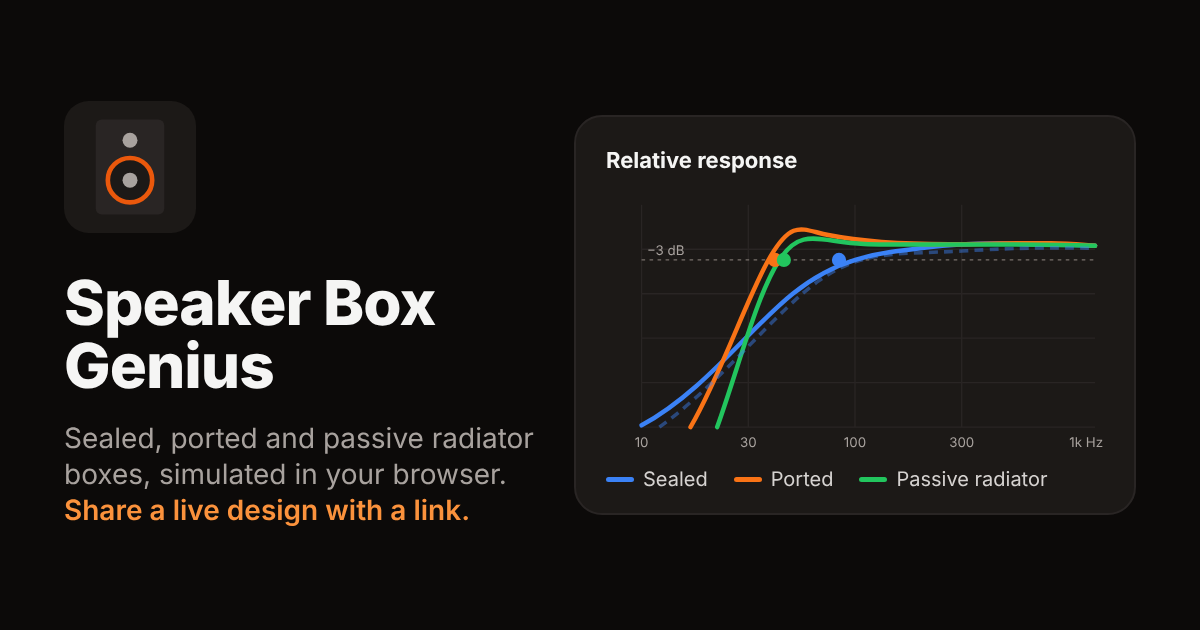
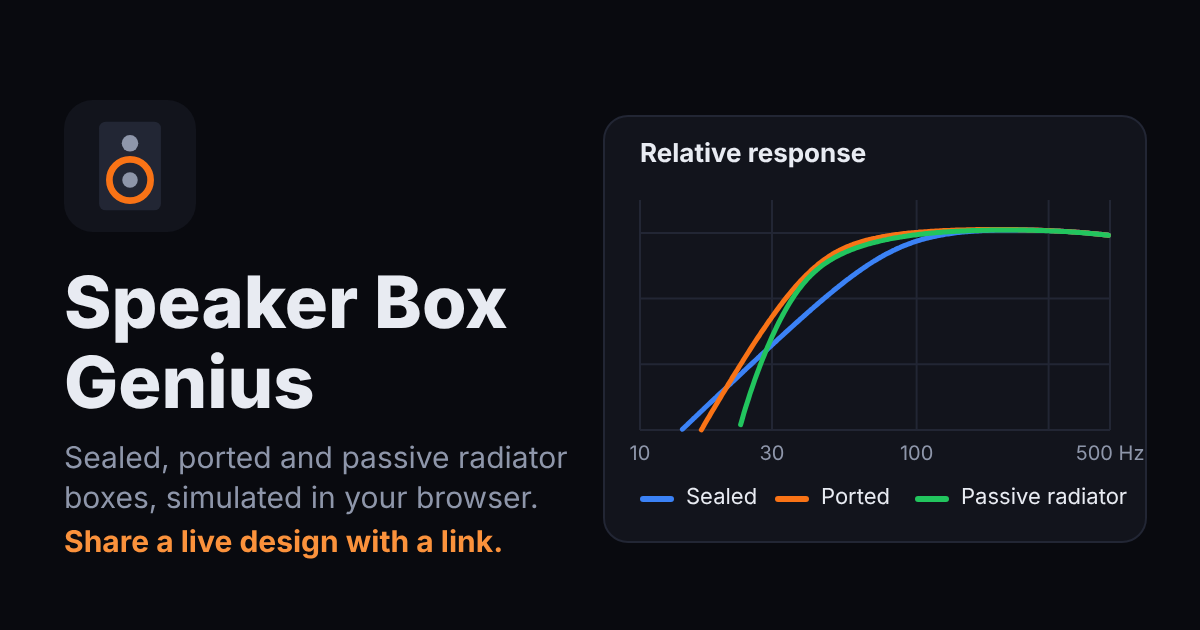
Cool blue-grey theme (orange accent kept)
- App: canvas #090A0F, cards #12141C, inputs #0C0E14 with a slightly
  stronger border (#343B4F), borders/grid #222634, muted #8E96AA, cool white
  text #E8EBF2; the warm greys left in the code (dimmed undo, chart greys, QR
  label) swapped for cool ones. Orange accent unchanged.
- Site pages, charts and driver share cards in the same colours.
- site/brand.ts redraws the app icons and the site's share image in the
  theme (the share image's curves are a real simulation); manifest and
  theme-color updated; service worker cache bumped so installed apps pick up
  the new icons.

Claude-Session: https://claude.ai/code/session_014Z7ytyiySCQiZm6U3R9TMx

diff --git a/site/brand.ts b/site/brand.ts
@@ -1,0 +1,131 @@
+/**
+ * Redraws the app icons and the site's share image (packages/web/public) from SVG, in the
+ * theme's colours, with headless Chrome (site/og.ts). Run it after changing the colours:
+ *
+ *   node --experimental-strip-types site/brand.ts
+ *
+ * The curves in the share image are a real simulation: the Dayton Audio DSA215-8 in its
+ * suggested sealed, ported and passive radiator boxes (as on its driver page).
+ */
+import { writeFileSync } from "node:fs";
+import { join } from "node:path";
+import { designDriver, loadDb, prCandidate } from "./drivers.ts";
+import { findChrome, Rasterizer } from "./og.ts";
+
+const PUBLIC = join(import.meta.dirname, "..", "packages", "web", "public");
+export const BRAND = {
+  canvas: "#090a0f",
+  card: "#12141c",
+  border: "#222634",
+  cabinet: "#222634",
+  dot: "#8e96aa",
+  fg: "#e8ebf2",
+  muted: "#8e96aa",
+  accent: "#fb923c",
+  ring: "#f97316",
+};
+const FONT = "Inter, 'Segoe UI', Roboto, 'DejaVu Sans', Arial, sans-serif";
+
+/**
+ * The logo: a speaker cabinet with a tweeter and an orange woofer ring, on a card.
+ * `inset` shrinks the drawing for maskable icons (whose edges get cropped to any shape);
+ * `rounded` gives the card rounded corners (off for iOS, which rounds it itself).
+ */
+export function logoSvg(size: number, o: { rounded?: boolean; inset?: number } = {}): string {
+  const k = (1 - (o.inset ?? 0)) * (size / 512);
+  const off = (size - 512 * k) / 2;
+  const r = o.rounded === false ? 0 : 112 * (size / 512);
+  return `<svg xmlns="http://www.w3.org/2000/svg" width="${size}" height="${size}" viewBox="0 0 ${size} ${size}">
+<rect width="${size}" height="${size}" rx="${r}" fill="${BRAND.card}"/>
+<g transform="translate(${off} ${off}) scale(${k})">
+<rect x="136" y="84" width="240" height="344" rx="26" fill="${BRAND.cabinet}"/>
+<circle cx="256" cy="168" r="32" fill="${BRAND.dot}"/>
+<circle cx="256" cy="310" r="80" fill="none" stroke="${BRAND.ring}" stroke-width="26"/>
+<circle cx="256" cy="310" r="30" fill="${BRAND.dot}"/>
+</g>
+</svg>`;
+}
+
+/** The site's own share image: the logo, the name, what it does, and a response chart. */
+export function siteCardSvg(curves: { color: string; label: string; points: [number, number][] }[]): string {
+  const W = 1200;
+  const H = 630;
+  const cx = 640, cy = 200, cw = 470, ch = 230;
+  const fMin = 10, fMax = 500, dbMin = -30, dbMax = 5;
+  const x = (f: number) => cx + (Math.log(f / fMin) / Math.log(fMax / fMin)) * cw;
+  const y = (db: number) => cy + ((dbMax - db) / (dbMax - dbMin)) * ch;
+  const grid = [
+    ...[10, 30, 100, 300, 500].map((f) => `<line x1="${x(f).toFixed(1)}" x2="${x(f).toFixed(1)}" y1="${cy}" y2="${cy + ch}"/>`),
+    ...[0, -10, -20, -30].map((d) => `<line x1="${cx}" x2="${cx + cw}" y1="${y(d).toFixed(1)}" y2="${y(d).toFixed(1)}"/>`),
+  ].join("");
+  const ticks = [
+    [10, "10"],
+    [30, "30"],
+    [100, "100"],
+    [500, "500 Hz"],
+  ]
+    .map(([f, t]) => `<text x="${x(f as number).toFixed(1)}" y="${cy + ch + 30}" text-anchor="middle" class="ax">${t}</text>`)
+    .join("");
+  const paths = curves
+    .map((c) => {
+      let d = "";
+      let pen = false;
+      for (const [f, v] of c.points) {
+        if (f < fMin || f > fMax || !(v >= dbMin)) {
+          pen = false;
+          continue;
+        }
+        d += `${pen ? "L" : "M"}${x(f).toFixed(1)} ${y(Math.min(v, dbMax)).toFixed(1)}`;
+        pen = true;
+      }
+      return `<path d="${d}" fill="none" stroke="${c.color}" stroke-width="5" stroke-linejoin="round" stroke-linecap="round"/>`;
+    })
+    .join("");
+  const legend = curves
+    .map((c, i) => `<g transform="translate(${cx + [0, 135, 275][i]!} ${cy + ch + 70})"><rect y="-4" width="34" height="6" rx="3" fill="${c.color}"/><text x="46" y="4" class="leg">${c.label}</text></g>`)
+    .join("");
+  const icon = logoSvg(132).replace(/^<svg[^>]*>/, "").replace(/<\/svg>$/, "");
+  return `<svg xmlns="http://www.w3.org/2000/svg" width="${W}" height="${H}" viewBox="0 0 ${W} ${H}">
+<style>text{font-family:${FONT};fill:${BRAND.fg}}.ax{fill:${BRAND.muted};font-size:20px}.leg{font-size:22px;fill:${BRAND.fg}}</style>
+<rect width="100%" height="100%" fill="${BRAND.canvas}"/>
+<g transform="translate(64 100)">${icon}</g>
+<text x="64" y="328" font-size="72" font-weight="800">Speaker Box</text>
+<text x="64" y="408" font-size="72" font-weight="800">Genius</text>
+<text x="64" y="468" font-size="30" fill="${BRAND.muted}" style="fill:${BRAND.muted}">Sealed, ported and passive radiator</text>
+<text x="64" y="508" font-size="30" style="fill:${BRAND.muted}">boxes, simulated in your browser.</text>
+<text x="64" y="552" font-size="30" font-weight="700" style="fill:${BRAND.accent}">Share a live design with a link.</text>
+<rect x="${cx - 36}" y="${cy - 84}" width="${cw + 72}" height="${ch + 196}" rx="24" fill="${BRAND.card}" stroke="${BRAND.border}" stroke-width="2"/>
+<text x="${cx}" y="${cy - 38}" font-size="26" font-weight="700">Relative response</text>
+<g stroke="${BRAND.border}" stroke-width="2">${grid}</g>
+${ticks}
+${paths}
+${legend}
+</svg>`;
+}
+
+if (process.argv[1] && import.meta.filename === process.argv[1]) {
+  const chrome = findChrome();
+  if (!chrome) throw new Error("No Chrome found (set CHROME_PATH)");
+  const db = loadDb();
+  const page = designDriver(db.drivers.find((e) => e.id === "dayton-audio/dsa215-8")!, db.passiveRadiators.map(prCandidate))!;
+  const names: Record<string, string> = { sealed: "Sealed", vented: "Ported", pr: "Passive radiator" };
+  const curves = page.designs.map((d) => ({
+    color: d.color,
+    label: names[d.design.kind] ?? d.design.kind,
+    points: Array.from(d.result.freq, (f, i) => [f, d.result.spl[i]! - d.result.summary.referenceSpl] as [number, number]),
+  }));
+  const r = await Rasterizer.start(chrome);
+  try {
+    const png = (svg: string, size: number) => r.image(svg, { width: size, height: size, format: "png" });
+    writeFileSync(join(PUBLIC, "icons", "icon-512.png"), await png(logoSvg(512), 512));
+    writeFileSync(join(PUBLIC, "icons", "icon-192.png"), await png(logoSvg(192), 192));
+    writeFileSync(join(PUBLIC, "icons", "favicon-32.png"), await png(logoSvg(32), 32));
+    // iOS rounds the corners itself; maskable icons get cropped to the platform's shape.
+    writeFileSync(join(PUBLIC, "icons", "apple-touch-icon.png"), await png(logoSvg(180, { rounded: false }), 180));
+    writeFileSync(join(PUBLIC, "icons", "icon-maskable-512.png"), await png(logoSvg(512, { rounded: false, inset: 0.2 }), 512));
+    writeFileSync(join(PUBLIC, "og-image.png"), await r.image(siteCardSvg(curves), { width: 1200, height: 630, format: "png" }));
+    console.log("Wrote the icons and og-image.png");
+  } finally {
+    await r.close();
+  }
+}

diff --git a/site/og.ts b/site/og.ts
@@ -57,18 +57,18 @@ export function cardSvg(o: { title: string; subtitle: string; rows: { color: str
     .map((r, i) => `<rect x="60" y="${352 + i * 62}" width="22" height="22" rx="5" fill="${r.color}"/><text x="98" y="${371 + i * 62}" class="row">${esc(r.text)}</text>`)
     .join("");
   return `<svg xmlns="http://www.w3.org/2000/svg" width="${CARD_W}" height="${CARD_H}" viewBox="0 0 ${CARD_W} ${CARD_H}">
-<style>text{font-family:${FONT};fill:#f5f5f4}.sub{fill:#a8a29e;font-size:30px}.row{font-size:30px;font-weight:600}.ax{fill:#a8a29e;font-size:20px}.brand{font-size:28px;font-weight:700}</style>
-<rect width="100%" height="100%" fill="#0c0a09"/>
+<style>text{font-family:${FONT};fill:#e8ebf2}.sub{fill:#8e96aa;font-size:30px}.row{font-size:30px;font-weight:600}.ax{fill:#8e96aa;font-size:20px}.brand{font-size:28px;font-weight:700}</style>
+<rect width="100%" height="100%" fill="#090a0f"/>
 <rect x="0" y="0" width="${CARD_W}" height="10" fill="#fb923c"/>
 <text x="60" y="${110 + (68 - tSize) / 3}" font-size="${tSize}" font-weight="800"${o.title.length > 34 ? ` textLength="1080" lengthAdjust="spacingAndGlyphs"` : ""}>${esc(o.title)}</text>
 <text x="60" y="${170}" class="sub">${esc(o.subtitle)}</text>
 <text x="60" y="300" class="sub">Suggested boxes</text>
 ${rows}
-<rect x="${cx - 20}" y="${cy - 30}" width="${cw + 40}" height="${ch + 80}" rx="18" fill="#1c1917"/>
-<g stroke="#292524" stroke-width="2">${grid}</g>
+<rect x="${cx - 20}" y="${cy - 30}" width="${cw + 40}" height="${ch + 80}" rx="18" fill="#12141c"/>
+<g stroke="#222634" stroke-width="2">${grid}</g>
 <g class="ax">${labels}</g>
 ${paths}
-<g transform="translate(60 568)"><rect width="40" height="40" rx="9" fill="#1c1917"/><circle cx="20" cy="24" r="10" fill="none" stroke="#fb923c" stroke-width="4"/><circle cx="20" cy="9" r="3" fill="#a8a29e"/><text x="56" y="30" class="brand">Speaker Box Genius</text></g>
+<g transform="translate(60 568)"><rect width="40" height="40" rx="9" fill="#12141c"/><circle cx="20" cy="24" r="10" fill="none" stroke="#fb923c" stroke-width="4"/><circle cx="20" cy="9" r="3" fill="#8e96aa"/><text x="56" y="30" class="brand">Speaker Box Genius</text></g>
 <text x="${CARD_W - 60}" y="598" text-anchor="end" class="sub" font-size="26">speakerboxgenius.com</text>
 </svg>`;
 }
@@ -104,6 +104,8 @@ export class Rasterizer {
     }
     await r.send("Page.enable");
     await r.send("Emulation.setDeviceMetricsOverride", { width: CARD_W, height: CARD_H, deviceScaleFactor: 1, mobile: false });
+    // Transparent page, so PNGs keep the rounded corners of the app icon.
+    await r.send("Emulation.setDefaultBackgroundColorOverride", { color: { r: 0, g: 0, b: 0, a: 0 } });
     return r;
   }
 
@@ -140,14 +142,27 @@ export class Rasterizer {
     return new Promise((ok, fail) => this.waiting.set(id, { ok, fail }));
   }
 
-  /** The SVG as a JPEG (a third the size of a PNG for these cards). */
-  async image(svg: string): Promise<Buffer> {
+  private size = { width: CARD_W, height: CARD_H };
+
+  /** The SVG as an image: a share card by default (1200 × 630 JPEG, a third the size of a PNG). */
+  async image(svg: string, o: { width?: number; height?: number; format?: "jpeg" | "png" } = {}): Promise<Buffer> {
+    const width = o.width ?? CARD_W;
+    const height = o.height ?? CARD_H;
+    if (width !== this.size.width || height !== this.size.height) {
+      await this.send("Emulation.setDeviceMetricsOverride", { width, height, deviceScaleFactor: 1, mobile: false });
+      this.size = { width, height };
+    }
     const file = join(this.dir, "card.svg");
     writeFileSync(file, svg);
     const loaded = new Promise<void>((ok) => (this.loaded = ok));
     await this.send("Page.navigate", { url: `file://${file}?${this.id}` });
     await loaded;
-    const { data } = await this.send("Page.captureScreenshot", { format: "jpeg", quality: 80, clip: { x: 0, y: 0, width: CARD_W, height: CARD_H, scale: 1 } });
+    const format = o.format ?? "jpeg";
+    const { data } = await this.send("Page.captureScreenshot", {
+      format,
+      ...(format === "jpeg" ? { quality: 80 } : {}),
+      clip: { x: 0, y: 0, width, height, scale: 1 },
+    });
     return Buffer.from(data, "base64");
   }
 

diff --git a/site/build.ts b/site/build.ts
@@ -164,7 +164,7 @@ export function resolveExamples(body: string, links: Record<string, string>, fil
 }
 
 const STYLE = `
-:root{color-scheme:dark;--bg:#0c0a09;--fg:#f5f5f4;--muted:#a8a29e;--accent:#fb923c;--card:#1c1917;--border:#292524}
+:root{color-scheme:dark;--bg:#090a0f;--fg:#e8ebf2;--muted:#8e96aa;--accent:#fb923c;--card:#12141c;--border:#222634}
 *{box-sizing:border-box}
 html{background:var(--bg);color:var(--fg)}
 body{margin:0;font:17px/1.65 system-ui,-apple-system,"Segoe UI",Roboto,sans-serif}
@@ -178,13 +178,13 @@ a{color:var(--accent)}
 @media (max-width:520px){.brand span{display:none}.nav{gap:.8rem}.nav .button{padding:.45rem .8rem}}
 @media (max-width:400px){.top{padding:.9rem .8rem;gap:.5rem}.nav{gap:.65rem;font-size:.95rem}.nav .button{padding:.4rem .65rem}}
 @media (max-width:440px){.nav .wide:not([aria-current]){display:none}.nav .opt{display:none}}
-.button{display:inline-block;padding:.55rem 1rem;border-radius:.6rem;background:var(--accent);color:#1c1917;font-weight:650;text-decoration:none;white-space:nowrap}
+.button{display:inline-block;padding:.55rem 1rem;border-radius:.6rem;background:var(--accent);color:#12141c;font-weight:650;text-decoration:none;white-space:nowrap}
 main{max-width:46rem;margin:0 auto;padding:.5rem 1.1rem 3rem}
 h1{font-size:2.1rem;line-height:1.15;margin:1rem 0 .6rem;letter-spacing:-.01em}
 h2{font-size:1.4rem;line-height:1.25;margin:2.2rem 0 .6rem}
 h3{font-size:1.1rem;margin:1.6rem 0 .4rem}
 .lede{color:var(--muted);font-size:1.12rem;margin-top:0}
-p,li{color:#e7e5e4}
+p,li{color:#d3d8e2}
 li{margin:.25rem 0}
 code{padding:.05rem .3rem;border-radius:.3rem;background:var(--card);font-size:.92em}
 pre{overflow-x:auto;padding:.8rem;border-radius:.6rem;background:var(--card)}
@@ -245,7 +245,7 @@ export function layout(o: { title: string; description: string; path: string; im
 <meta property="og:url" content="${url}">
 <meta property="og:image" content="${image}">
 <meta name="twitter:card" content="summary_large_image">
-<meta name="theme-color" content="#1c1917">
+<meta name="theme-color" content="#12141c">
 <meta name="color-scheme" content="dark">
 <link rel="icon" type="image/png" sizes="32x32" href="/icons/favicon-32.png">
 <link rel="apple-touch-icon" href="/icons/apple-touch-icon.png">

diff --git a/packages/web/src/styles.css b/packages/web/src/styles.css
@@ -1,17 +1,19 @@
 :root {
-  /* Dark only: the light palette never looked right, and the charts were tuned on dark. */
+  /* Dark only, cool blue-grey surfaces with the orange brand accent. */
   color-scheme: dark;
-  --bg: #0c0a09;
-  --fg: #f5f5f4;
-  /* Muted text: #b5b0aa keeps small notes comfortable to read on the cards. */
-  --muted: #b5b0aa;
+  --bg: #090a0f; /* app canvas */
+  --card: #12141c; /* card surface */
+  --well: #0c0e14; /* inputs and other wells */
+  --border: #222634; /* card borders, dividers */
+  --input-border: #343b4f; /* a little stronger, so fields stand out from the card */
+  --grid: #222634;
+  --fg: #e8ebf2; /* cool white */
+  --muted: #8e96aa; /* 6.2:1 on cards */
+  --faint: #4b5266; /* disabled controls */
   --accent: #fb923c;
-  --card: #1c1917;
-  --border: #292524;
-  --grid: #292524;
   --over: #f87171;
   --warn: #fbbf24;
-  --on-accent: #1c1917;
+  --on-accent: #090a0f;
   font-family: system-ui, -apple-system, "Segoe UI", Roboto, sans-serif;
   font-size: 15px;
   background: var(--bg);
@@ -158,9 +160,9 @@ input {
   min-width: 0;
   padding: 0.3rem 0.45rem;
   font: inherit;
-  border: 1px solid var(--border);
+  border: 1px solid var(--input-border);
   border-radius: 6px;
-  background: var(--bg);
+  background: var(--well);
   color: var(--fg);
 }
 
@@ -328,9 +330,9 @@ select {
   min-width: 0;
   padding: 0.35rem 0.45rem;
   font: inherit;
-  border: 1px solid var(--border);
+  border: 1px solid var(--input-border);
   border-radius: 6px;
-  background: var(--bg);
+  background: var(--well);
   color: var(--fg);
 }
 
@@ -678,9 +680,9 @@ textarea {
   font: inherit;
   font-size: 0.85rem;
   padding: 0.4rem;
-  border: 1px solid var(--border);
+  border: 1px solid var(--input-border);
   border-radius: 6px;
-  background: var(--bg);
+  background: var(--well);
   color: var(--fg);
 }
 
@@ -2830,7 +2832,7 @@ details.more .hint {
 /* Undo/redo when there's nothing to undo: dimmed, but still visible. */
 .undo-redo button.icon:disabled {
   opacity: 1;
-  color: #57534e;
+  color: var(--faint);
 }
 
 @media (pointer: coarse) {

diff --git a/packages/web/src/App.tsx b/packages/web/src/App.tsx
@@ -79,7 +79,7 @@ const LIMIT_KINDS: Record<string, { label: string; short: string; color: string 
   xmax: { label: "Cone Xmax", short: "cone Xmax", color: "#dc2626" },
   "pr-xmax": { label: "PR Xmax", short: "PR Xmax", color: "#9333ea" },
   port: { label: "Port speed", short: "port speed", color: "#d97706" },
-  thermal: { label: "Power (Pe)", short: "power handling", color: "#78716c" },
+  thermal: { label: "Power (Pe)", short: "power handling", color: "#6b7389" },
 };
 
 type ChartId = "excursion" | "pr" | "port" | "maxspl" | "impedance" | "za" | "delay";
@@ -1627,10 +1627,10 @@ export function App(props: { initial: AppState | null }) {
                 ...measuredSeries(state.measured, "impedance", freq, mainDesigns),
                 ...(measurement
                   ? [
-                      { label: "Measured (free air)", color: "#78716c", dash: "6 4", y: resampleMagnitude(measurement.data, freq) },
+                      { label: "Measured (free air)", color: "#6b7389", dash: "6 4", y: resampleMagnitude(measurement.data, freq) },
                       {
                         label: "Fit (free air)",
-                        color: "#a8a29e",
+                        color: "#8e96aa",
                         dash: "2 3",
                         y: freq.map((f) => impedanceMagnitude(measurement.fit, f)),
                       },
@@ -1646,7 +1646,7 @@ export function App(props: { initial: AppState | null }) {
                 unit="× ρc/S"
                 freq={freq}
                 series={zaSeries}
-                limits={[{ value: 1, label: "1 = the duct's own impedance", color: "#a8a29e" }]}
+                limits={[{ value: 1, label: "1 = the duct's own impedance", color: "#8e96aa" }]}
                 limitStyle="guide"
                 digits={2}
                 {...zaRange}

diff --git a/site/chart.ts b/site/chart.ts
@@ -82,16 +82,16 @@ export function chart(o: { label: string; unit: string; series: Series[]; aria: 
 
 export const CHART_STYLE = `
 .chart{display:block;width:100%;height:auto}
-.chart .grid line{stroke:#292524;stroke-width:1}
-.chart .ax text{fill:#a8a29e;font:13px system-ui,sans-serif}
+.chart .grid line{stroke:#222634;stroke-width:1}
+.chart .ax text{fill:#8e96aa;font:13px system-ui,sans-serif}
 .chart .line{fill:none;stroke:var(--accent);stroke-width:1.8;stroke-linejoin:round}
-.chart .ref{fill:none;stroke:#e7e5e4;stroke-opacity:.5;stroke-width:6;stroke-linejoin:round;stroke-linecap:round}
-.chart .pt{fill:#f5f5f4;stroke:#0c0a09;stroke-width:1.5}
+.chart .ref{fill:none;stroke:#d3d8e2;stroke-opacity:.5;stroke-width:6;stroke-linejoin:round;stroke-linecap:round}
+.chart .pt{fill:#e8ebf2;stroke:#090a0f;stroke-width:1.5}
 .charts{display:grid;gap:.8rem;grid-template-columns:repeat(auto-fit,minmax(17rem,1fr))}
 .charts figure{margin:0;padding:.5rem .5rem .3rem;border:1px solid var(--border);border-radius:.7rem;background:var(--card)}
 .charts figcaption{margin:0 0 0 .3rem}
 .key{display:flex;flex-wrap:wrap;gap:1rem;color:var(--muted);font-size:.9rem}
 .key span::before{content:"";display:inline-block;width:1.4rem;height:0;margin:0 .4rem .25rem 0;vertical-align:middle;border-top:2.5px solid var(--accent)}
-.key .k-ref::before{border-top:6px solid rgba(231,229,228,.5)}
-.key .k-pt::before{width:.6rem;height:.6rem;border:0;border-radius:50%;background:#f5f5f4}
+.key .k-ref::before{border-top:6px solid rgba(211,216,226,.5)}
+.key .k-pt::before{width:.6rem;height:.6rem;border:0;border-radius:50%;background:#e8ebf2}
 `;

diff --git a/packages/web/index.html b/packages/web/index.html
@@ -18,11 +18,11 @@
     <link rel="icon" type="image/png" sizes="32x32" href="/icons/favicon-32.png" />
     <link rel="apple-touch-icon" href="/icons/apple-touch-icon.png" />
     <link rel="manifest" href="/manifest.webmanifest" />
-    <meta name="theme-color" content="#1c1917" />
+    <meta name="theme-color" content="#12141c" />
     <meta name="color-scheme" content="dark" />
     <title>Speaker Box Genius</title>
     <!-- Dark before the stylesheet arrives, so slow in-app browsers don't flash white. -->
-    <style>html{background:#0c0a09;color:#f5f5f4;color-scheme:dark}</style>
+    <style>html{background:#090a0f;color:#e8ebf2;color-scheme:dark}</style>
   </head>
   <body>
     <div id="root"></div>

diff --git a/packages/web/public/sw.js b/packages/web/public/sw.js
@@ -12,7 +12,8 @@
  * page links to and the whole database are saved, so the app works offline
  * after a single visit. Files from old versions are removed.
  */
-const CACHE = "sbg-v1";
+// Bump when files with unchanged names change (v2: the cool theme's icons).
+const CACHE = "sbg-v2";
 const SCOPE = new URL("./", self.location).href;
 const PAGE = SCOPE; // index.html
 const STATIC = ["manifest.webmanifest", "icons/icon-192.png", "icons/icon-512.png", "icons/apple-touch-icon.png"];

diff --git a/packages/web/src/Share.tsx b/packages/web/src/Share.tsx
@@ -259,7 +259,7 @@ export async function renderForumImage(state: AppState, designs: Design[], url?:
       g.roundRect(W - pad - qr - 8, 16, qr + 16, qr + 36, 12);
       g.fill();
       drawQr(g, url, W - pad - qr, 20, qr, scale);
-      g.fillStyle = "#1c1917";
+      g.fillStyle = "#090a0f";
       g.font = `600 15px ${font}`;
       g.textAlign = "center";
       g.fillText("Scan: live design", W - pad - qr / 2, 20 + qr + 22);
